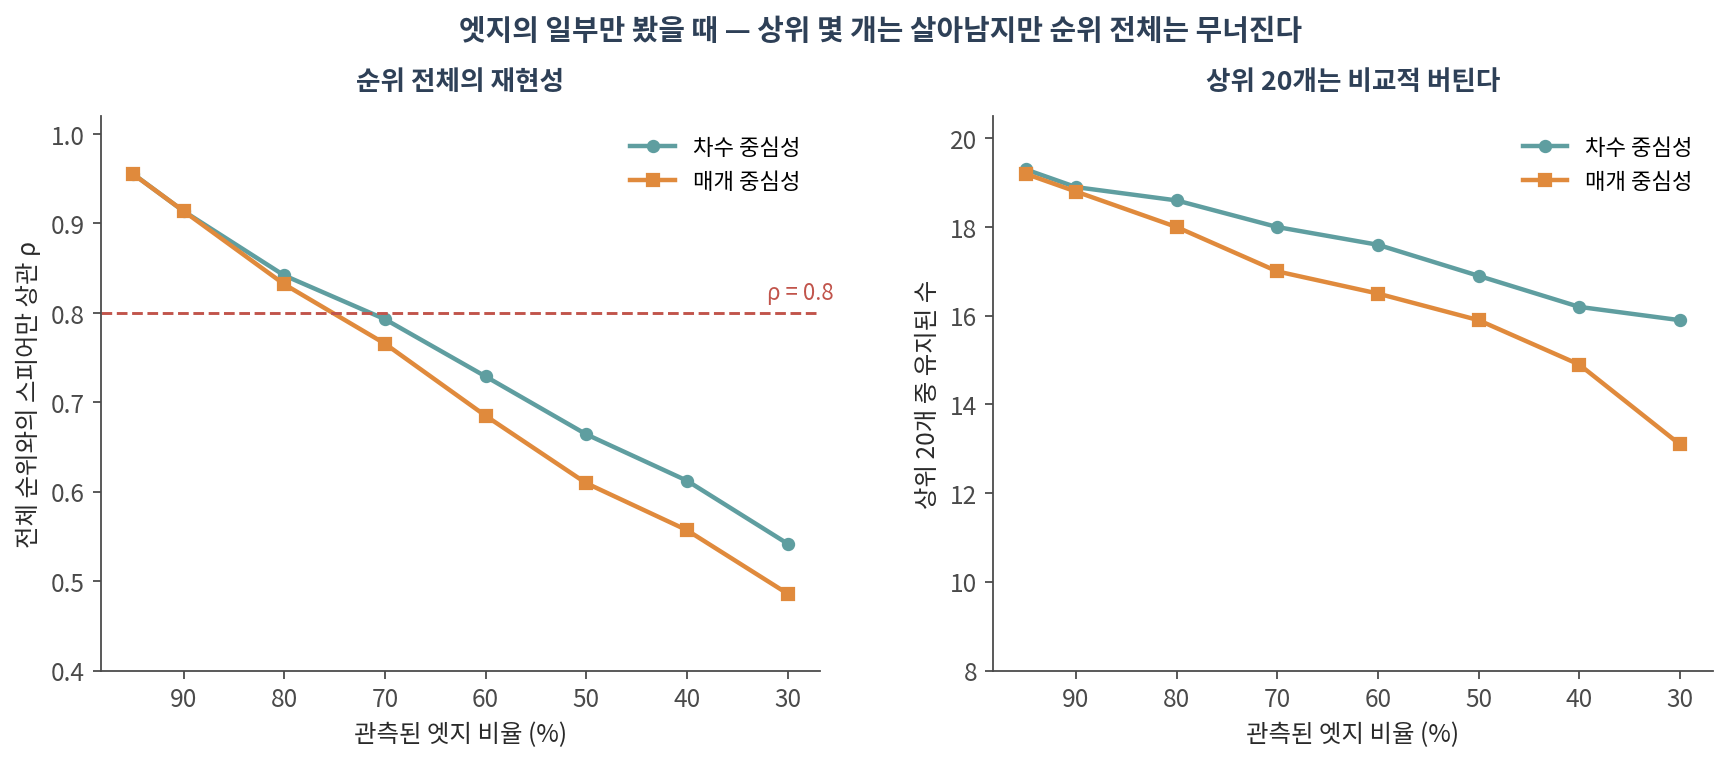
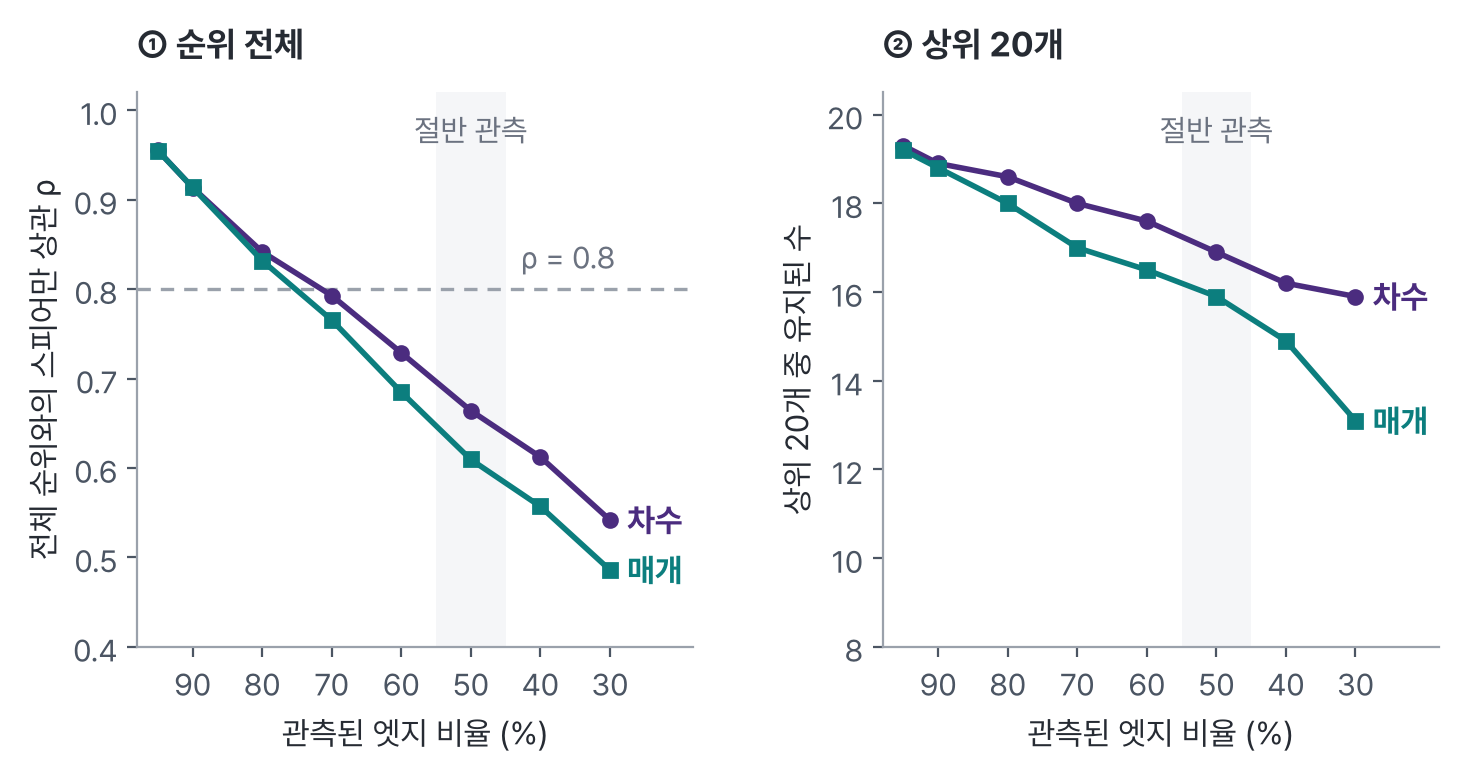
Ch 07: figures in the course style (incompleteness,layout,study_bias)
Claude-Session: https://claude.ai/code/session_013CY8u6jJVw5bdmmbqCENQW

diff --git a/figs/c07_study_bias.py b/figs/c07_study_bias.py
@@ -1,4 +1,4 @@
-"""07 §2 — 연구 편향(study bias)이 만드는 가짜 허브.
+"""07 §2-1 — 연구 편향(study bias)이 만드는 가짜 허브.
 
 진짜 네트워크에는 허브가 하나도 없다(ER). 그런데 '많이 연구된 단백질일수록
 상호작용이 발견될 확률이 높다'는 규칙 하나만 넣으면, 관측된 네트워크는
@@ -6,11 +6,10 @@
 """
 import sys, os
 sys.path.insert(0, os.path.dirname(os.path.abspath(__file__)))
-from style import *
+from medfig import *
 import networkx as nx
 from scipy.stats import spearmanr
 
-OUT = outdir("c07")
 rng = np.random.default_rng(0)
 
 n, m = 1000, 6000
@@ -31,49 +30,85 @@ deg_obs = np.array([G_obs.degree(v) for v in range(n)])
 rho_true = spearmanr(deg_obs, deg_true).statistic
 rho_eff = spearmanr(deg_obs, effort).statistic
 
-fig, axes = plt.subplots(1, 3, figsize=(15.4, 4.5), gridspec_kw={"wspace": 0.28})
+cv_true = deg_true.std() / deg_true.mean()
+cv_obs = deg_obs.std() / deg_obs.mean()
 
-# --- A. 차수 분포 (평균으로 나눠 같은 자에 놓고 비교) ----------------------
-ax = axes[0]
+# ── 색: 진짜 네트워크 · 관측 네트워크 · 연구량 (그림 안에서 같은 뜻 = 같은 색) ──
+C_TRUE, C_OBS, C_EFF = CAT[1], PRIMARY, CAT[2]
+
+plt.rcParams.update({"xtick.labelsize": 11, "ytick.labelsize": 11})
+fig = plt.figure(figsize=(8.4, 6.3))
+gs = fig.add_gridspec(2, 2, width_ratios=[1.75, 1], height_ratios=[1, 1.05],
+                      hspace=0.55, wspace=0.42)
+ax1 = fig.add_subplot(gs[0, :])
+ax2 = fig.add_subplot(gs[1, 0])
+ax3 = fig.add_subplot(gs[1, 1])
+
+def marker(ax, text):
+    ax.text(0.0, 1.06, text, transform=ax.transAxes, ha="left", va="bottom",
+            fontsize=12.5, fontweight="bold", color=TEXT)
+
+# --- ① 차수 분포 (평균으로 나눠 같은 자에 놓고 비교) ----------------------
+ax = ax1
 bins = np.linspace(0, 5, 34)
-ax.hist(deg_true / deg_true.mean(), bins=bins, color=BLUE, alpha=0.8,
-        label=f"진짜 (ER)  CV={deg_true.std()/deg_true.mean():.2f}")
-ax.hist(deg_obs / deg_obs.mean(), bins=bins, color=RED, alpha=0.7,
-        label=f"관측  CV={deg_obs.std()/deg_obs.mean():.2f}")
-ax.set_xlabel("차수 / 평균 차수"); ax.set_ylabel("노드 수")
-ax.set_title("없던 꼬리가 생긴다", color=NAVY, fontsize=12)
-ax.legend(frameon=False, fontsize=10)
+ax.hist(deg_obs / deg_obs.mean(), bins=bins, color=C_OBS, lw=0, zorder=2)
+# 진짜 분포는 윤곽선으로 — 값이 있는 구간만 그려 축 위를 덮지 않게
+h_true, _ = np.histogram(deg_true / deg_true.mean(), bins=bins)
+nz = np.nonzero(h_true)[0]
+lo, hi = nz.min(), nz.max() + 1
+ax.stairs(h_true[lo:hi], bins[lo:hi + 1], baseline=0, fill=False, color=C_TRUE, lw=2.2, zorder=3)
+ax.set_xlabel("차수 / 평균 차수", fontsize=11.5)
+ax.set_ylabel("노드 수", fontsize=11.5)
+ax.set_xlim(-0.1, 5.05); ax.set_ylim(0, 290)
+ax.text(2.25, 240, f"진짜 (ER)   CV = {cv_true:.2f}", color=C_TRUE, fontsize=11.5,
+        fontweight="bold", va="center")
+ax.text(2.25, 205, f"관측   CV = {cv_obs:.2f}", color=C_OBS, fontsize=11.5,
+        fontweight="bold", va="center")
+ax.annotate(f"없던 꼬리 · 최대 차수가 평균의 {deg_obs.max() / deg_obs.mean():.2f}배",
+            xy=(2.75, 38), xytext=(3.0, 120), fontsize=11, color=ACCENT_INK,
+            fontweight="bold", va="center",
+            arrowprops=dict(arrowstyle="-|>", color=ACCENT_INK, lw=1.2,
+                            connectionstyle="arc3,rad=0.2"))
+marker(ax, "① 차수 분포")
 
-# --- B. 관측 차수는 무엇을 따라가는가 --------------------------------------
-ax = axes[1]
+# --- ② 관측 차수는 무엇을 따라가는가 --------------------------------------
+ax = ax2
 # 차수가 정수라 점이 줄무늬로 겹칩니다 — 세로로 살짝 흔들어 표시합니다
 jit = rng.normal(0, 0.14, n)
-ax.scatter(effort, deg_obs + jit, s=8, color=RED, alpha=0.30)
+ax.scatter(effort, deg_obs + jit, s=8, color=mix(C_OBS, 0.55), alpha=0.45, lw=0, zorder=2)
 qs = np.quantile(effort, np.linspace(0, 1, 11))
 cx, cy = [], []
 for a, b in zip(qs[:-1], qs[1:]):
     sel = (effort >= a) & (effort < b)
     if sel.sum():
         cx.append(effort[sel].mean()); cy.append(deg_obs[sel].mean())
-ax.plot(cx, cy, "o-", color=NAVY, lw=2.2, ms=6, label="구간 평균")
-ax.legend(frameon=False, fontsize=10)
-ax.set_xlabel("연구량 (상대값)"); ax.set_ylabel("관측된 차수")
-ax.set_title(f"관측 차수 vs 연구량   ρ = {rho_eff:.2f}", color=NAVY, fontsize=12)
+MEAN_C = shade(C_OBS, 0.35)
+ax.plot(cx, cy, "o-", color=MEAN_C, lw=2.2, ms=5.5, zorder=4)
+ax.text(cx[-1] + 0.04, cy[-1], "구간 평균", color=MEAN_C, fontsize=11, fontweight="bold",
+        va="center", ha="left", zorder=5,
+        bbox=dict(boxstyle="round,pad=0.15", fc="white", ec="none", alpha=0.85))
+ax.text(0.97, 0.97, f"ρ = {rho_eff:.2f}", transform=ax.transAxes, ha="right", va="top",
+        fontsize=12, fontweight="bold", color=TEXT)
+ax.set_xlabel("연구량 (상대값)", fontsize=11.5)
+ax.set_ylabel("관측된 차수", fontsize=11.5)
+ax.set_xlim(-0.03, 1.05); ax.set_ylim(-0.8, 10.8)
+ax.set_yticks([0, 2, 4, 6, 8, 10])
+marker(ax, "② 관측 차수 vs 연구량")
 
-# --- C. 상관 비교 ----------------------------------------------------------
-ax = axes[2]
-ax.bar(["진짜 차수", "연구량"], [rho_true, rho_eff], color=[BLUE, RED], width=0.5)
+# --- ③ 상관 비교 ----------------------------------------------------------
+ax = ax3
+cols = [C_TRUE, C_EFF]
+ax.bar([0, 1], [rho_true, rho_eff], color=cols, width=0.55, zorder=2)
 for i, val in enumerate([rho_true, rho_eff]):
-    ax.text(i, val + 0.015, f"{val:.2f}", ha="center", fontsize=12,
-            fontweight="bold", color=[BLUE, RED][i])
-ax.set_ylim(0, 0.6); ax.set_ylabel("관측 차수와의 스피어만 상관 ρ")
-ax.set_title("⚠ 관측 허브는 진짜 차수보다\n연구량을 더 잘 따라간다", color=NAVY,
-             fontsize=12)
+    ax.text(i, val + 0.015, f"{val:.2f}", ha="center", va="bottom", fontsize=12,
+            fontweight="bold", color=cols[i])
+ax.set_xticks([0, 1]); ax.set_xticklabels(["진짜 차수", "연구량"])
+ax.set_xlim(-0.6, 1.6)
+ax.set_ylim(0, 0.6); ax.set_yticks([0, 0.2, 0.4, 0.6])
+ax.set_ylabel("관측 차수와의\n스피어만 상관 ρ", fontsize=11.5)
+marker(ax, "③ 무엇을 더 따라가나")
 
-fig.suptitle("진짜 네트워크에는 허브가 없다 — 허브는 관측 과정이 만들었다",
-             color=NAVY, fontsize=13, fontweight="bold", y=1.03)
-fig.savefig(os.path.join(OUT, "study_bias.png"))
-print("wrote", os.path.join(OUT, "study_bias.png"))
+save(fig, img("c07", "study_bias.png"))
 print(f"진짜: 평균 {deg_true.mean():.2f} CV {deg_true.std()/deg_true.mean():.3f} "
       f"최대/평균 {deg_true.max()/deg_true.mean():.2f}")
 print(f"관측: 평균 {deg_obs.mean():.2f} CV {deg_obs.std()/deg_obs.mean():.3f} "

diff --git a/figs/c07_incompleteness.py b/figs/c07_incompleteness.py
@@ -4,12 +4,11 @@
 """
 import sys, os
 sys.path.insert(0, os.path.dirname(os.path.abspath(__file__)))
-from style import *
+from medfig import *
 import networkx as nx
 import pandas as pd
 from scipy.stats import spearmanr
 
-OUT = outdir("c07")
 rng = np.random.default_rng(0)
 
 G = nx.powerlaw_cluster_graph(600, 3, 0.3, seed=2)
@@ -38,28 +37,33 @@ for frac in fracs:
     print(f"관측 {frac:.0%}: 차수 rho {np.mean(d_r):.3f} 상위20 {np.mean(d_o):.1f}/20 | "
           f"매개 rho {np.mean(b_r):.3f} 상위20 {np.mean(b_o):.1f}/20")
 
+# ── drawing ────────────────────────────────────────────────────────────────
+NEUTRAL = "#9AA1AB"
+DC, BC = CAT[0], CAT[2]                    # 차수 · 매개 (나란한 두 지표)
 x = np.array(fracs) * 100
-fig, axes = plt.subplots(1, 2, figsize=(13.0, 4.5), gridspec_kw={"wspace": 0.24})
+plt.rcParams.update({"xtick.labelsize": 11, "ytick.labelsize": 11})
+fig, axes = plt.subplots(1, 2, figsize=(8.4, 3.6), gridspec_kw={"wspace": 0.34})
+
+panels = [(axes[0], "① 순위 전체", "deg_rho", "btw_rho", "전체 순위와의 스피어만 상관 ρ", (0.4, 1.02)),
+          (axes[1], "② 상위 20개", "deg_ov", "btw_ov", "상위 20개 중 유지된 수", (8, 20.5))]
+for ax, mark, dk, bk, ylab, ylim in panels:
+    lo, hi = ylim
+    ax.axvspan(45, 55, color=FAINT, lw=0, zorder=0)
+    ax.text(50, hi - 0.035 * (hi - lo), "절반 관측", ha="center", va="top", fontsize=11, color=TEXT2)
+    ax.plot(x, res[dk], "o-", color=DC, lw=2, ms=5, zorder=3)
+    ax.plot(x, res[bk], "s-", color=BC, lw=2, ms=5, zorder=3)
+    ax.text(27.5, res[dk][-1], "차수", color=DC, fontsize=11.5, fontweight="bold", va="center", ha="left")
+    ax.text(27.5, res[bk][-1], "매개", color=BC, fontsize=11.5, fontweight="bold", va="center", ha="left")
+    ax.set_xlim(98, 18)                    # 뒤집힌 축: 오른쪽 끝에 직접 라벨 자리
+    ax.set_xticks([90, 80, 70, 60, 50, 40, 30])
+    ax.set_ylim(lo, hi)
+    ax.set_xlabel("관측된 엣지 비율 (%)", fontsize=11.5)
+    ax.set_ylabel(ylab, fontsize=11.5)
+    ax.text(0.0, 1.05, mark, transform=ax.transAxes, ha="left", va="bottom",
+            fontsize=12.5, fontweight="bold", color=TEXT)
 
 ax = axes[0]
-ax.plot(x, res["deg_rho"], "o-", color=TEAL, lw=2, ms=5, label="차수 중심성")
-ax.plot(x, res["btw_rho"], "s-", color=ORANGE, lw=2, ms=5, label="매개 중심성")
-ax.axhline(0.8, color=RED, ls="--", lw=1.3)
-ax.text(32, 0.815, "ρ = 0.8", color=RED, fontsize=10)
-ax.set_xlabel("관측된 엣지 비율 (%)"); ax.set_ylabel("전체 순위와의 스피어만 상관 ρ")
-ax.set_ylim(0.4, 1.02); ax.invert_xaxis()
-ax.set_title("순위 전체의 재현성", color=NAVY, fontsize=12)
-ax.legend(frameon=False, fontsize=10)
+ax.axhline(0.8, color=NEUTRAL, ls=(0, (4, 3)), lw=1.2, zorder=1)
+ax.text(36, 0.815, "ρ = 0.8", color=TEXT2, fontsize=11, ha="center", va="bottom")
 
-ax = axes[1]
-ax.plot(x, res["deg_ov"], "o-", color=TEAL, lw=2, ms=5, label="차수 중심성")
-ax.plot(x, res["btw_ov"], "s-", color=ORANGE, lw=2, ms=5, label="매개 중심성")
-ax.set_xlabel("관측된 엣지 비율 (%)"); ax.set_ylabel("상위 20개 중 유지된 수")
-ax.set_ylim(8, 20.5); ax.invert_xaxis()
-ax.set_title("상위 20개는 비교적 버틴다", color=NAVY, fontsize=12)
-ax.legend(frameon=False, fontsize=10)
-
-fig.suptitle("엣지의 일부만 봤을 때 — 상위 몇 개는 살아남지만 순위 전체는 무너진다",
-             color=NAVY, fontsize=13, fontweight="bold", y=1.02)
-fig.savefig(os.path.join(OUT, "incompleteness.png"))
-print("wrote", os.path.join(OUT, "incompleteness.png"))
+save(fig, img("c07", "incompleteness.png"))

diff --git a/figs/c07_layout.py b/figs/c07_layout.py
@@ -4,11 +4,9 @@
 """
 import sys, os
 sys.path.insert(0, os.path.dirname(os.path.abspath(__file__)))
-from style import *
+from medfig import *
 import networkx as nx
 from networkx.algorithms.community import louvain_communities
-
-OUT = outdir("c07")
 
 n_comm, size, p_in, p_out = 4, 35, 0.16, 0.012
 P = np.full((n_comm, n_comm), p_out); np.fill_diagonal(P, p_in)
@@ -16,7 +14,9 @@ G = nx.stochastic_block_model([size] * n_comm, P, seed=8)
 G = G.subgraph(max(nx.connected_components(G), key=len)).copy()
 
 parts = louvain_communities(G, seed=0)
-palette = [TEAL, PURPLE, ORANGE, OLIVE, BLUE, RED]
+palette = list(CAT)                       # 커뮤니티 = 나란한 범주
+if len(parts) > len(palette):
+    palette += [shade(c, 0.3) for c in CAT]
 cmap = {}
 for i, c in enumerate(parts):
     for v in c:
@@ -24,23 +24,29 @@ for i, c in enumerate(parts):
 cols = [cmap[v] for v in G.nodes()]
 
 layouts = [
-    ("spring (seed=1)", nx.spring_layout(G, seed=1, k=0.30)),
-    ("spring (seed=2)", nx.spring_layout(G, seed=2, k=0.30)),
-    ("Kamada–Kawai", nx.kamada_kawai_layout(G)),
-    ("circular", nx.circular_layout(G)),
+    ("① spring (seed = 1)", nx.spring_layout(G, seed=1, k=0.30)),
+    ("② spring (seed = 2)", nx.spring_layout(G, seed=2, k=0.30)),
+    ("③ Kamada–Kawai", nx.kamada_kawai_layout(G)),
+    ("④ circular", nx.circular_layout(G)),
 ]
 
-fig, axes = plt.subplots(1, 4, figsize=(16.0, 4.4), gridspec_kw={"wspace": 0.04})
-for ax, (name, pos) in zip(axes, layouts):
-    nx.draw_networkx_edges(G, pos, ax=ax, edge_color=LGREY, width=0.5)
-    nx.draw_networkx_nodes(G, pos, ax=ax, node_color=cols, linewidths=0,
-                           node_size=55)
-    ax.set_title(name, color=NAVY, fontsize=12)
-    ax.margins(0.06); ax.set_axis_off()
+fig, axes = plt.subplots(2, 2, figsize=(7.4, 6.4),
+                         gridspec_kw={"wspace": 0.06, "hspace": 0.14})
+for ax, (name, pos) in zip(axes.ravel(), layouts):
+    nx.draw_networkx_edges(G, pos, ax=ax, edge_color=LINE, width=0.6)
+    nx.draw_networkx_nodes(G, pos, ax=ax, node_color=cols, linewidths=0, node_size=30)
+    # 그리는 범위만 맞춤: 각 배치를 패널 가운데에, 같은 크기로
+    xy = np.array([pos[v] for v in G.nodes()])
+    lo, hi = xy.min(axis=0), xy.max(axis=0)
+    c = (lo + hi) / 2
+    h = (hi - lo).max() / 2 * 1.07
+    ax.set_xlim(c[0] - h, c[0] + h); ax.set_ylim(c[1] - h, c[1] + h)
+    ax.set_aspect("equal", adjustable="box")
+    ax.set_xticks([]); ax.set_yticks([])
+    for sp in ax.spines.values(): sp.set_visible(False)
+    ax.text(0.5, 1.01, name, transform=ax.transAxes, ha="center", va="bottom",
+            fontsize=12.5, fontweight="bold", color=TEXT)
 
-fig.suptitle("같은 그래프, 같은 커뮤니티 — 노드 사이 거리를 해석하지 마세요",
-             color=NAVY, fontsize=13, fontweight="bold", y=1.02)
-fig.savefig(os.path.join(OUT, "layout.png"))
-print("wrote", os.path.join(OUT, "layout.png"))
+save(fig, img("c07", "layout.png"))
 print(f"노드 {G.number_of_nodes()}, 엣지 {G.number_of_edges()}, "
       f"커뮤니티 {len(parts)}개 — 네 그림 모두 동일")
